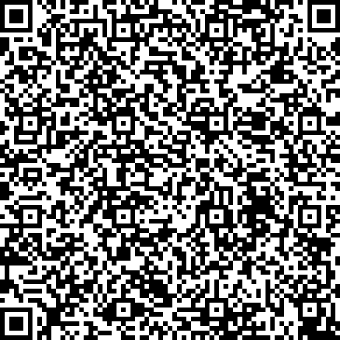
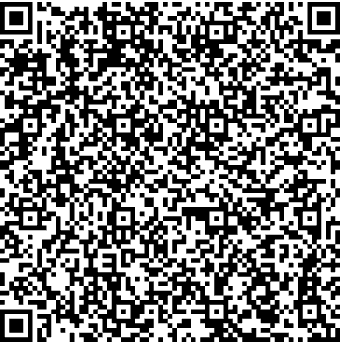
update tron doc

diff --git a/docs/integration/sign/tron.md b/docs/integration/sign/tron.md
@@ -31,7 +31,7 @@ import KeystoneSDK
 let tronSignRequest = TronSignRequest(
     requestId: "9b1deb4d-3b7d-4bad-9bdd-2b0d7b3dcb6d",
[1 lines of base64/hex data omitted]
-    path: "m/44'/195'/0'/0'/0",
+    path: "m/44'/195'/0'/0/0",
     xfp: "F23F9FD2",
     tokenInfo: TokenInfo(name: "TRON_USDT", symbol: "USDT", decimals: 6)
 )
@@ -67,9 +67,9 @@ import com.keystone.sdk.KeystoneSDK
 val tronSignRequest = TronSignRequest(
     requestId = "9b1deb4d-3b7d-4bad-9bdd-2b0d7b3dcb6d",
[1 lines of base64/hex data omitted]
-    path = "m/44'/195'/0'/0'/0",
+    path = "m/44'/195'/0'/0/0",
     xfp = "F23F9FD2",
-    tokenInfo = TokenInfo("USDT", "TRON_USDT", 8)
+    tokenInfo = TokenInfo("USDT", "TRON_USDT", 6)
 )
 
 val keystoneSDK = KeystoneSDK()
@@ -97,23 +97,24 @@ An example of covert a Tron transaction data into QR code [here](https://github.
 #### **<span class="typescript">Web(TypeScript)</span>**
 
 ```jsx
-import KeystoneSDK, { KeystoneAptosSDK } from "@keystonehq/keystone-sdk"
+import KeystoneSDK from "@keystonehq/keystone-sdk"
 import {AnimatedQRCode} from "@keystonehq/animated-qr"
 
-let aptosSignRequest = {
-    requestId: "17467482-2654-4058-972D-F436EFAEB38E",
[1 lines of base64/hex data omitted]
-    signType: KeystoneAptosSDK.SignType.SingleSign,
-    accounts: [{
-        path: "m/44'/637'/0'/0'/0'",
-        xfp: "F23F9FD2"
-    }],
-    origin: "Petra"
+let tronSignRequest = {
+    requestId: '9b1deb4d-3b7d-4bad-9bdd-2b0d7b3dcb6d',
[1 lines of base64/hex data omitted]
+    path: "m/44'/195'/0'/0/0",
+    xfp: 'F23F9FD2',
+    tokenInfo: {
+        name: 'TRON_USDT',
+        symbol: 'USDT',
+        decimals: 6
+    }
 }
 
-const Aptos = () => {
+const Tron = () => {
     const keystoneSDK = new KeystoneSDK();
-    const ur = keystoneSDK.aptos.generateSignRequest(aptosSignRequest);
+    const ur = keystoneSDK.tron.generateSignRequest(tronSignRequest);
 
     return <AnimatedQRCode type={ur.type} cbor={ur.cbor.toString("hex")}/>
 }
